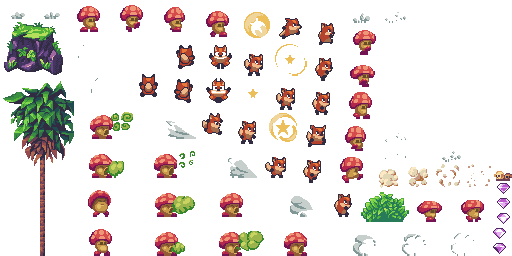
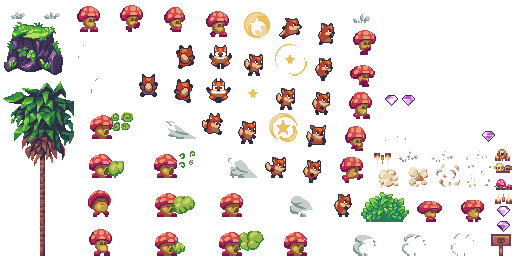
add damaging spikes and some extra props

diff --git a/core/src/main/kotlin/io/github/quillraven/foxventure/system/CollisionSystem.kt b/core/src/main/kotlin/io/github/quillraven/foxventure/system/CollisionSystem.kt
@@ -107,56 +107,92 @@ class CollisionSystem(
         otherType: String
     ) {
         when (otherType) {
-            "gem" -> {
-                val playerComponent = player[Player]
-                playerComponent.gems++
-                gameViewModel.gems = playerComponent.gems
-
-                val transform = other[Transform]
-                spawnPickupSfx(transform)
-
-                other.remove()
-                audioService.playSound("pickup.wav")
-            }
-
-            "damage" -> {
-                val (source, damageAmount) = other[Damage]
-                if (world.damageEntity(source, target = player, damageAmount, invulnerableTime = 1f, "hurt2.wav")) {
-                    other.remove()
-                }
-            }
-
-            "enemy" -> {
-                val playerBottom = playerTransform.position.y + playerCollBox.y
-                val enemyTop = otherTransform.position.y + otherCollBox.y + otherCollBox.height * 0.75f
-
-                if (playerBottom >= enemyTop) {
-                    // player stomps on an enemy from above -> apply upwards impulse
-                    val jumpPressed = player[Controller].hasCommand(Command.JUMP)
-                    val physics = player[Physics]
-                    player[Velocity].current.y = if (jumpPressed) physics.jumpImpulse else physics.jumpImpulse * 0.7f
-
-                    // damage enemy
-                    world.damageEntity(
-                        source = player,
-                        target = other,
-                        damage = 1,
-                        invulnerableTime = 0.5f,
-                        soundName = "hurt1.wav"
-                    )
-                    return
-                }
-
-                // the player collides from the side or below - the player gets damaged
-                world.damageEntity(
-                    source = other,
-                    target = player,
-                    damage = 1,
-                    invulnerableTime = 1f,
-                    soundName = "hurt2.wav"
-                )
-            }
+            "gem" -> onPlayerGemCollision(player, other)
+            "damage" -> onPlayerDamageCollision(player, other)
+            "spike" -> onPlayerSpikeCollision(player, other)
+            "enemy" -> onPlayerEnemyCollision(player, other, playerTransform, playerCollBox, otherTransform, otherCollBox)
         }
+    }
+
+    private fun onPlayerSpikeCollision(
+        player: Entity,
+        other: Entity
+    ) {
+        world.damageEntity(
+            source = other,
+            target = player,
+            damage = 1,
+            invulnerableTime = 0.75f,
+            soundName = "hurt2.wav",
+            pushBackForce = 8f,
+        )
+    }
+
+    private fun onPlayerEnemyCollision(
+        player: Entity,
+        other: Entity,
+        playerTransform: Transform,
+        playerCollBox: Rect,
+        otherTransform: Transform,
+        otherCollBox: Rect,
+    ) {
+        val playerBottom = playerTransform.position.y + playerCollBox.y
+        val enemyTop = otherTransform.position.y + otherCollBox.y + otherCollBox.height * 0.75f
+
+        if (playerBottom >= enemyTop) {
+            // player stomps on an enemy from above -> apply upwards impulse
+            val jumpPressed = player[Controller].hasCommand(Command.JUMP)
+            val physics = player[Physics]
+            player[Velocity].current.y = if (jumpPressed) physics.jumpImpulse else physics.jumpImpulse * 0.7f
+
+            // damage enemy
+            world.damageEntity(
+                source = player,
+                target = other,
+                damage = 1,
+                invulnerableTime = 0.5f,
+                soundName = "hurt1.wav",
+                pushBackForce = 0f,
+            )
+            return
+        }
+
+        // the player collides from the side or below - the player gets damaged
+        world.damageEntity(
+            source = other,
+            target = player,
+            damage = 1,
+            invulnerableTime = 1f,
+            soundName = "hurt2.wav",
+            pushBackForce = 7f,
+        )
+    }
+
+    private fun onPlayerDamageCollision(player: Entity, other: Entity) {
+        val (source, damageAmount) = other[Damage]
+        if (world.damageEntity(
+                source,
+                target = player,
+                damageAmount,
+                invulnerableTime = 1f,
+                "hurt2.wav",
+                pushBackForce = 6f
+            )
+        ) {
+            other.remove()
+        }
+    }
+
+    private fun onPlayerGemCollision(player: Entity, other: Entity) {
+        val playerComponent = player[Player]
+        playerComponent.gems++
+        gameViewModel.gems = playerComponent.gems
+
+        val transform = other[Transform]
+        spawnPickupSfx(transform)
+
+        other.remove()
+        audioService.playSound("pickup.wav")
     }
 
     private fun spawnPickupSfx(transform: Transform) {

diff --git a/core/src/main/kotlin/io/github/quillraven/foxventure/system/DamagedSystem.kt b/core/src/main/kotlin/io/github/quillraven/foxventure/system/DamagedSystem.kt
@@ -12,6 +12,7 @@ import io.github.quillraven.foxventure.component.Flash
 import io.github.quillraven.foxventure.component.Graphic
 import io.github.quillraven.foxventure.component.Life
 import io.github.quillraven.foxventure.component.Player
+import io.github.quillraven.foxventure.component.Transform
 import io.github.quillraven.foxventure.component.Velocity
 import io.github.quillraven.foxventure.ui.GameViewModel
 import kotlin.math.max
@@ -51,14 +52,20 @@ class DamagedSystem(
                 entity.configure { it -= EntityTag.CLIMBING }
             }
 
-            // push entity back slightly
-            val direction = if (damaged.source.wasRemoved()) {
-                if (entity[Graphic].flip) 1f else -1f
-            } else {
-                if (damaged.source[Graphic].flip) -1f else 1f
-            }
-            entity.getOrNull(Velocity)?.let { velocity ->
-                velocity.current.x = 6f * direction
+            // push entity back
+            val velocity = entity.getOrNull(Velocity)
+            if (damaged.pushBackForce != 0f && velocity != null) {
+                val sourceTransform = damaged.source.getOrNull(Transform)
+                val direction = if (damaged.source.wasRemoved()) {
+                    if (entity[Graphic].flip) 1f else -1f
+                } else if (sourceTransform != null) {
+                    val sourceCenterX = sourceTransform.position.x + sourceTransform.size.x / 2f
+                    val entityCenterX = entity[Transform].position.x + entity[Transform].size.x / 2f
+                    if (sourceCenterX > entityCenterX) -1f else 1f
+                } else {
+                    if (damaged.source[Graphic].flip) -1f else 1f
+                }
+                velocity.current.x = damaged.pushBackForce * direction
             }
 
             // play sound
@@ -77,10 +84,19 @@ class DamagedSystem(
             damage: Int,
             invulnerableTime: Float,
             soundName: String,
+            pushBackForce: Float,
         ): Boolean {
             if (target.has(Damaged)) return false // target invulnerable -> ignore damage
 
-            target.configure { it += Damaged(source, invulnerableTime = invulnerableTime, damage, soundName) }
+            target.configure {
+                it += Damaged(
+                    source,
+                    invulnerableTime = invulnerableTime,
+                    damage,
+                    soundName,
+                    pushBackForce
+                )
+            }
             return true
         }
     }

diff --git a/assets/maps/props.tsx b/assets/maps/props.tsx
@@ -1,5 +1,5 @@
 <?xml version="1.0" encoding="UTF-8"?>
-<tileset version="1.10" tiledversion="1.11.2" name="props" tilewidth="79" tileheight="176" tilecount="4" columns="0">
+<tileset version="1.10" tiledversion="1.11.2" name="props" tilewidth="79" tileheight="176" tilecount="9" columns="0">
  <grid orientation="orthogonal" width="1" height="1"/>
  <tile id="0">
   <image source="../graphics/sprites/props/bush.png" width="46" height="28"/>
@@ -12,5 +12,26 @@
  </tile>
  <tile id="3">
   <image source="../graphics/sprites/props/skulls.png" width="16" height="10"/>
+ </tile>
+ <tile id="4" type="spike">
+  <image source="../graphics/sprites/props/spikes.png" width="15" height="10"/>
+  <objectgroup draworder="index" id="2">
+   <object id="1" x="0" y="1" width="15" height="9"/>
+  </objectgroup>
+ </tile>
+ <tile id="5" type="spike">
+  <image source="../graphics/sprites/props/spikes-top.png" width="15" height="9"/>
+  <objectgroup draworder="index" id="2">
+   <object id="1" x="0" y="0" width="15" height="9"/>
+  </objectgroup>
+ </tile>
+ <tile id="6">
+  <image source="../graphics/sprites/props/spike-skull.png" width="17" height="12"/>
+ </tile>
+ <tile id="7">
+  <image source="../graphics/sprites/props/sign.png" width="18" height="20"/>
+ </tile>
+ <tile id="8">
+  <image source="../graphics/sprites/props/shrooms.png" width="16" height="15"/>
  </tile>
 </tileset>

diff --git a/core/src/main/kotlin/io/github/quillraven/foxventure/component/Damaged.kt b/core/src/main/kotlin/io/github/quillraven/foxventure/component/Damaged.kt
@@ -9,6 +9,7 @@ data class Damaged(
     val invulnerableTime: Float, // how long do you remain invulnerable until the next damage can be applied?
     val damage: Int,
     val soundName: String,
+    val pushBackForce: Float,
 ) : Component<Damaged> {
     var timer: Float = 0f
 
